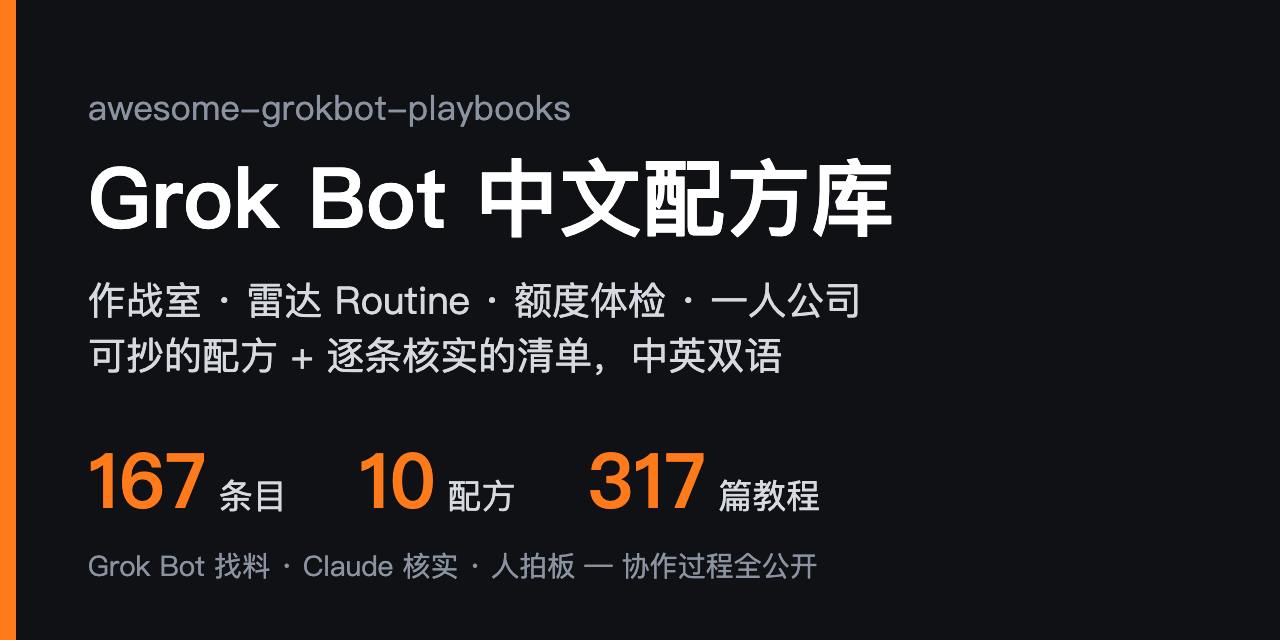
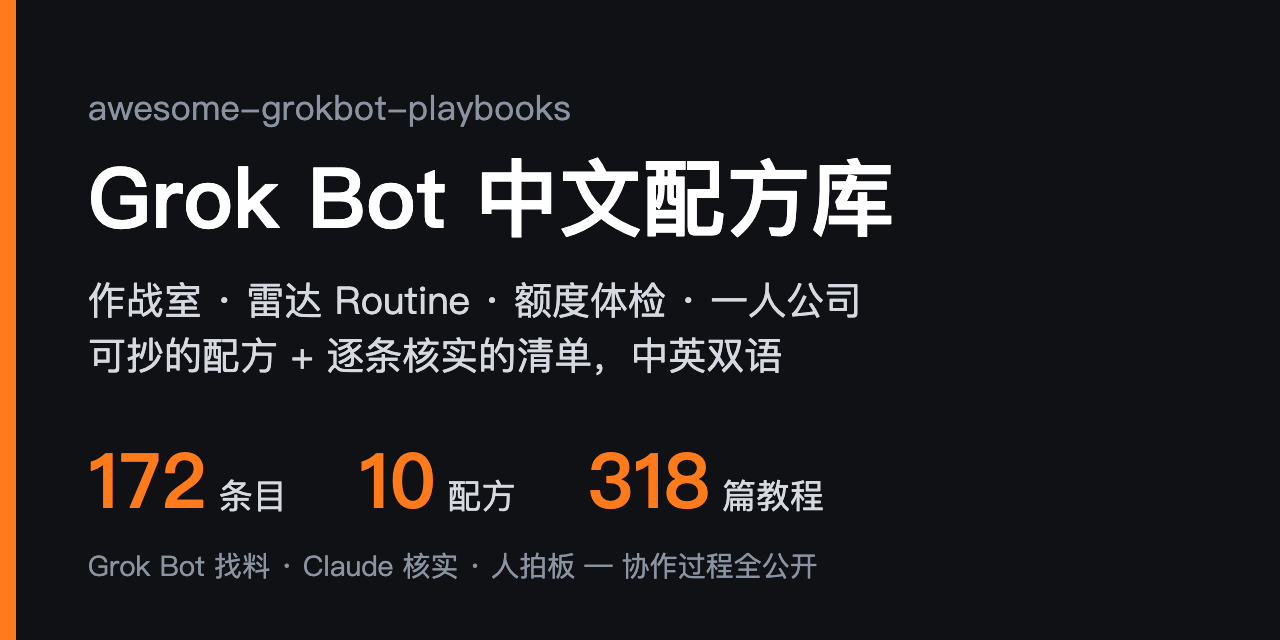
collab: loop #96 entries 167 -> 172, x-articles 284 -> 285 (tutorials 317 -> 318), recheck 10-30 batch

Changed region(s): [[0.5, 0.7188, 0.6562, 0.8125], [0.0938, 0.6875, 0.1562, 0.8125]]

diff --git a/.collab/recheck.md b/.collab/recheck.md
@@ -141,23 +141,19 @@ Claude 维护。仓库没过收录门槛（见 [CONTRIBUTING.md](../CONTRIBUTING
 | [devicki/ourobot](https://github.com/devicki/ourobot) | 11-05 | 0★ · MIT · 建 10-22 | 10-29 第 1 次延期：建仓后没有新提交；顾问 bot：把 Q00/ouroboros 包成 Grok Bot 引擎，本机跑 Ouroboros MCP + Claude Code + Grok Build；默认只咨询、验收，到期核是否真以 Grok Bot 为主 |
 | [Obiwayne/grokbot-receipts](https://github.com/Obiwayne/grokbot-receipts) | 11-05 | 0★ · MIT · 建 10-22 | 10-29 第 1 次延期：建仓后没有新提交；@bot 事实核验 skill：归档原文、逐字核引文、两家独立来源才下结论，只出草稿不发帖；作者注明 Grok Bot 包没真机测 |
 | [antonyfuentesdev/spanish-teacher-bot-template](https://github.com/antonyfuentesdev/spanish-teacher-bot-template) | 11-05 | 0★ · CC BY-NC 4.0（GitHub 识别为 Other）· 建 10-22 | 10-29 第 1 次延期：建仓后没有新提交；西语教师 bot 模板源：人设、记忆、routine、13 个 skill；收录时注明不能商用 |
-| [aipmer/codex-grok-task-bridge](https://github.com/aipmer/codex-grok-task-bridge) | 10-30 | 4★ · Apache-2.0 · 建 09-12 · 最近提交 09-20 | 门槛已过，但 README 自己写 Grok Bot 侧「还要接 connector、测 routine」。到期看作者跑通没有，跑通就收；仍没跑通就移出 |
-| [markmcnair/chief-of-staff-kit](https://github.com/markmcnair/chief-of-staff-kit) | 10-30 | 0★ · MIT · 建 10-23 | Beeper / iMessage 新消息 → webhook routine 起草，只有你批准的行才经 Supabase outbox 发出；短评写明要接 Supabase 和本机 Mac |
-| [yeemio/grokbots-team](https://github.com/yeemio/grokbots-team) | 10-30 | 0★ · MIT · 建 10-23 | 多 bot 团队运维小工具（PR 交接唤醒总管、X 草稿队列不自动发）；到期看是否脱离个人环境、能给别人用 |
-| [hunvreus/grokbot-discord](https://github.com/hunvreus/grokbot-discord) | 10-30 | 0★ · MIT · 建 10-23 | Discord 斜杠命令 → Cloudflare Worker 验签 + 用户/服务器/频道白名单 → routine webhook，经 followup_url 回原频道；过线放 webhook 桥一类 |
-| [PhillipHolland/security-audit-bot](https://github.com/PhillipHolland/security-audit-bot) | 10-30 | 0★ · 无 LICENSE · 建 10-23 | 只读浅克隆 + 开源扫描器出线索 + Cloudflare security-audit skill 验证；到期先看补没补 LICENSE，再核 Grok Bot 侧用法（README 没提 Grok，说明在 bot-spec.md） |
-| [severusgao/hermes-office](https://github.com/severusgao/hermes-office) | 10-30 | 0★ · MIT · 建 10-23 | 中文自托管「Grok Bot 式 AI 团队」平替（Hermes Agent + 多 CLI + 互审）；过线放「自托管与平替」，到期看是否能脱离作者环境跑 |
-| [howardpen9/tg-stars-workflows](https://github.com/howardpen9/tg-stars-workflows) | 10-30 | 1★ · 无 LICENSE · 建 10-23 | Telegram Stars 付款 → 签名 webhook 唤醒创作者的 routine 交付，仓里只放公开 listing；到期先看 LICENSE，再看签名唤醒是否已实现（README 写 phase 2）；涉付款，收录时标实验性、算商业类 |
-| [beansmile/geo-checker-grok-bot-scripts](https://github.com/beansmile/geo-checker-grok-bot-scripts) | 10-30 | 0★ · MIT · 建 10-23 | GEO 体检 skill 的脚本：Python 标准库爬站、9 维规则打分、出 md / html 报告，LLM 部分由 bot 自己做，不要外部 key；到期看是否只是某个 bot 模板的配套脚本 |
-| [Vedant817/vesper-grok-bot-bridge](https://github.com/Vedant817/vesper-grok-bot-bridge) | 10-30 | 0★ · MIT · 建 10-23 | Grok Bot 当编码 agent 的监工：派活、补输入、同会话返工、看真实验证结果再验收；两套模板（T3 Connect / 本仓 MCP 桥接 ACP 编码 CLI，隔离 worktree）；过线放「多 Bot 团队」或「技能与玩法」，短评写明本机要跑 MCP 桥 |
-| [mascarock/grokbot-inbox](https://github.com/mascarock/grokbot-inbox) | 10-30 | 0★ · MIT · 建 10-23 | bot 按 skill 只读导出自己的邮件，打包进 URL fragment，纯前端本地解码显示，不发信不回信；过线放「技能与玩法」 |
-| [Zhanweelee/wechat-clawbot-grok-bridge](https://github.com/Zhanweelee/wechat-clawbot-grok-bridge) | 10-30 | 0★ · MIT · 建 10-23 | 微信 ClawBot ↔ webhook routine 的 Go 单文件桥，扫码登录、长轮询转发、本地接口回帖；过线放「中文一人公司」，短评提醒微信接口合规风险 |
-| [RongleCat/grok-bot-esp32-sdk](https://github.com/RongleCat/grok-bot-esp32-sdk) | 10-30 | 0★ · MIT · 建 10-23 · 最近提交 10-23 | 非官方 ESP-IDF C++ 组件：PKCE 登录、bot 名册、发消息、回复流解码；作者同已收的 Grok Bot Clipper。走非公开接口，过线放「硬件」并写明非官方 |
-| [TeebooTed/desk](https://github.com/TeebooTed/desk) | 10-30 | 0★ · MIT · 建 10-23 · 最近提交 10-24 | 本机单文件项目看板，经本地 relay 发消息到 webhook routine，bot 回写 status.json；过线放「技能与玩法」 |
-| [Obiwayne/dawnbrief](https://github.com/Obiwayne/dawnbrief) | 10-30 | 0★ · MIT · 建 10-23 · 最近提交 10-23 | 早 7 点只读简报（日历、邮件、RSS），带本机 preview；作者说 Grok 包未真机测，收的话写明；过线放「Routine 与摘要」 |
-| [Obiwayne/sweepmail](https://github.com/Obiwayne/sweepmail) | 10-30 | 0★ · MIT · 建 10-23 · 最近提交 10-23 | Gmail 清理 skill，人批后再分批 trash，本机吃 Takeout 干跑；同 dawnbrief 作者，同样未真机测 |
-| [alpha404ai/grok-one-shot](https://github.com/alpha404ai/grok-one-shot) | 10-30 | 0★ · MIT · 建 10-23 · 最近提交 10-23 | 一次做完少返工的 prompt + 模板；同作者一天建了 4 个 prompt 仓（另有 cost-cutter、market-analyst、trading-desk），到期看是否还在维护 |
-| [alpha404ai/grok-cost-cutter](https://github.com/alpha404ai/grok-cost-cutter) | 10-30 | 0★ · MIT · 建 10-23 · 最近提交 10-23 | 省额度 prompt：触发优先、预检、缓存、日硬顶；和 grok-bot-local-first、额度体检配方对照看是否有新东西 |
+| [markmcnair/chief-of-staff-kit](https://github.com/markmcnair/chief-of-staff-kit) | 11-06 | 0★ · MIT · 建 10-23 | 11-01 第 1 次延期：建仓后没有新提交。Beeper / iMessage 新消息 → webhook routine 起草，只有你批准的行才经 Supabase outbox 发出；短评写明要接 Supabase 和本机 Mac |
+| [yeemio/grokbots-team](https://github.com/yeemio/grokbots-team) | 11-06 | 0★ · MIT · 建 10-23 | 11-01 第 1 次延期：建仓后没有新提交。多 bot 团队运维小工具（PR 交接唤醒总管、X 草稿队列不自动发）；到期看是否脱离个人环境、能给别人用 |
+| [hunvreus/grokbot-discord](https://github.com/hunvreus/grokbot-discord) | 11-06 | 0★ · MIT · 建 10-23 | 11-01 第 1 次延期：建仓后没有新提交。Discord 斜杠命令 → Cloudflare Worker 验签 + 用户/服务器/频道白名单 → routine webhook，经 followup_url 回原频道；过线放 webhook 桥一类 |
+| [PhillipHolland/security-audit-bot](https://github.com/PhillipHolland/security-audit-bot) | 11-06 | 0★ · 无 LICENSE · 建 10-23 | 11-01 第 1 次延期：10-24 有新提交，但仍没 LICENSE，请作者先补。只读浅克隆 + 开源扫描器出线索 + Cloudflare security-audit skill 验证；到期先看补没补 LICENSE，再核 Grok Bot 侧用法（README 没提 Grok，说明在 bot-spec.md） |
+| [severusgao/hermes-office](https://github.com/severusgao/hermes-office) | 11-06 | 0★ · MIT · 建 10-23 | 11-01 第 1 次延期：建仓后没有新提交。中文自托管「Grok Bot 式 AI 团队」平替（Hermes Agent + 多 CLI + 互审）；过线放「自托管与平替」，到期看是否能脱离作者环境跑 |
+| [howardpen9/tg-stars-workflows](https://github.com/howardpen9/tg-stars-workflows) | 11-06 | 1★ · 无 LICENSE · 建 10-23 | 11-01 第 1 次延期：建仓后没有新提交，也还没 LICENSE。Telegram Stars 付款 → 签名 webhook 唤醒创作者的 routine 交付，仓里只放公开 listing；到期先看 LICENSE，再看签名唤醒是否已实现（README 写 phase 2）；涉付款，收录时标实验性、算商业类 |
+| [beansmile/geo-checker-grok-bot-scripts](https://github.com/beansmile/geo-checker-grok-bot-scripts) | 11-06 | 0★ · MIT · 建 10-23 | 11-01 第 1 次延期：建仓后没有新提交。GEO 体检 skill 的脚本：Python 标准库爬站、9 维规则打分、出 md / html 报告，LLM 部分由 bot 自己做，不要外部 key；到期看是否只是某个 bot 模板的配套脚本 |
+| [Zhanweelee/wechat-clawbot-grok-bridge](https://github.com/Zhanweelee/wechat-clawbot-grok-bridge) | 11-06 | 0★ · MIT · 建 10-23 | 11-01 第 1 次延期：建仓后没有新提交。微信 ClawBot ↔ webhook routine 的 Go 单文件桥，扫码登录、长轮询转发、本地接口回帖；过线放「中文一人公司」，短评提醒微信接口合规风险 |
+| [RongleCat/grok-bot-esp32-sdk](https://github.com/RongleCat/grok-bot-esp32-sdk) | 11-06 | 0★ · MIT · 建 10-23 · 最近提交 10-23 | 11-01 第 1 次延期：建仓后没有新提交。非官方 ESP-IDF C++ 组件：PKCE 登录、bot 名册、发消息、回复流解码；作者同已收的 Grok Bot Clipper。走非公开接口，过线放「硬件」并写明非官方 |
+| [Obiwayne/dawnbrief](https://github.com/Obiwayne/dawnbrief) | 11-06 | 0★ · MIT · 建 10-23 · 最近提交 10-23 | 11-01 第 1 次延期：建仓后没有新提交。早 7 点只读简报（日历、邮件、RSS），带本机 preview；作者说 Grok 包未真机测，收的话写明；过线放「Routine 与摘要」 |
+| [Obiwayne/sweepmail](https://github.com/Obiwayne/sweepmail) | 11-06 | 0★ · MIT · 建 10-23 · 最近提交 10-23 | 11-01 第 1 次延期：建仓后没有新提交。Gmail 清理 skill，人批后再分批 trash，本机吃 Takeout 干跑；同 dawnbrief 作者，同样未真机测 |
+| [alpha404ai/grok-one-shot](https://github.com/alpha404ai/grok-one-shot) | 11-06 | 0★ · MIT · 建 10-23 · 最近提交 10-23 | 11-01 第 1 次延期：建仓后没有新提交。一次做完少返工的 prompt + 模板；同作者一天建了 4 个 prompt 仓（另有 cost-cutter、market-analyst、trading-desk），到期看是否还在维护 |
+| [alpha404ai/grok-cost-cutter](https://github.com/alpha404ai/grok-cost-cutter) | 11-06 | 0★ · MIT · 建 10-23 · 最近提交 10-23 | 11-01 第 1 次延期：建仓后没有新提交。省额度 prompt：触发优先、预检、缓存、日硬顶；和 grok-bot-local-first、额度体检配方对照看是否有新东西 |
 | [anselmcmakin/local-ai-manager](https://github.com/anselmcmakin/local-ai-manager) | 11-07 | 0★ · MIT · 建 10-24 · 最近提交 10-24 | 10-31 第 1 次延期：建仓后没有新提交。本机本地模型运维，Grok Bot 当监工（watchdog、仪表盘、只绑 127.0.0.1）；作者同已收的 Personal Chef |
 | [cooperpt/apple-watch-grokbot-health](https://github.com/cooperpt/apple-watch-grokbot-health) | 11-07 | 0★ · MIT · 建 10-24 · 最近提交 10-24 | 10-31 第 1 次延期：建仓后没有新提交。中文：Apple Watch 健康数据 → 快捷指令 → webhook → bot 出睡眠小结；仓里只有 README；健康数据敏感，收的话写明 |
 | [sujian666666com-glitch/grokbot-video-mcp](https://github.com/sujian666666com-glitch/grokbot-video-mcp) | 11-07 | 2★ · MIT · 建 10-24 · 最近提交 10-24 | 10-31 第 1 次延期：建仓后没有新提交。本机 MCP 经 webhook 把视频生成派给已有 bot，回调收 MP4；要开 cloudflared 隧道，收的话写明；中英 README |
@@ -168,7 +164,6 @@ Claude 维护。仓库没过收录门槛（见 [CONTRIBUTING.md](../CONTRIBUTING
 | [jbronssin/echo-dot-grok](https://github.com/jbronssin/echo-dot-grok) | 11-07 | 0★ · MIT · 建 10-24 · 最近提交 10-24 | 10-31 第 1 次延期：建仓后没有新提交。旧 Echo Dot 解锁后当语音听筒接 Grok Bot；要刷机、走桌面端私有接口，过线放「硬件」并写明风险 |
 | [rystedtcreative/grokbot-omalauncher-widget](https://github.com/rystedtcreative/grokbot-omalauncher-widget) | 11-07 | 0★ · MIT · 建 10-24 · 最近提交 10-24 | 10-31 第 1 次延期：建仓后没有新提交。Android Omalauncher 主屏挂件：bot 列表加未读点，setup bot 引导建私有 GitHub feed、手机只用只读 deploy key；过线放「技能与玩法」 |
 | [hnn22/lesgooo-grok-plugin](https://github.com/hnn22/lesgooo-grok-plugin) | 11-07 | 0★ · MIT · 建 10-24 · 最近提交 10-24 | 10-31 第 1 次延期：建仓后没有新提交。好友凑局 skill + 远程 MCP（空闲比对、地点投票、分账不转账），走作者的 lesgooo.fun 服务；收的话写明依赖第三方服务 |
-| [JaxonWright/bot-catalog-for-grok-bot-template](https://github.com/JaxonWright/bot-catalog-for-grok-bot-template) | 10-30 | 1★ · GPL-3.0 · 建 10-23 · 最近提交 10-24 | 自更新 bot 目录模板：分享链接给的是拷贝、不随作者更新，目录里每个 bot 带日更 routine，有新 release 才问你升不升；GPL-3.0 要写明；过线放「模板与目录」 |
 | [abhione/grokbot-browser-fleet](https://github.com/abhione/grokbot-browser-fleet) | 11-07 | 0★ · Apache-2.0 · 建 10-24 · 最近提交 10-24 | 10-31 第 1 次延期：建仓后没有新提交。本机浏览器舰队：每个 bot 一个独立 Chrome 配置，外发（私信、发帖、邮件、购买）要人批，有发送上限、去重、勿扰名单和 STOP 文件一键熔断；macOS 优先；过线放「技能与玩法」 |
 | [YeJe-cpu/grok-eats](https://github.com/YeJe-cpu/grok-eats) | 11-07 | 0★ · MIT · 建 10-31 · 最近提交 10-31 | 让 Grok Bot 在云电脑浏览器里点美团外卖 H5：读近期订单给候选、勾最大红包、只用地址簿地址、读回确认才提交，停在收银台由人手机付款；四条硬规则写得清楚，附 10-31 实测截图，中英 README。过线时核美团 H5 自动下单是否碰平台条款，短评写明非官方接口、风险自担 |
 | [BeatAPI/grokbot-growth](https://github.com/BeatAPI/grokbot-growth) | 11-07 | 0★ · MIT · 建 10-31 · 最近提交 10-31 | 中文出海增长 Bot 舰队开工包：一个 skill 先问产品/市场/渠道，再生成总管和社媒、SEO、外链、竞品等岗位说明、共用规则、审核表和第一周清单。商业 API 公司出品，过线时核推广程度（是否要求其 key 或服务），只推免费可用部分 |
@@ -185,6 +180,7 @@ Claude 维护。仓库没过收录门槛（见 [CONTRIBUTING.md](../CONTRIBUTING
 | [Roccat92/grok-office](https://github.com/Roccat92/grok-office) | 11-07 | 0★ · 无 License · 建 10-31 · 最近提交 10-31 | 静态 3D 办公室大屏：bot 自写 `status.json`，页面每 10 秒刷新，附一键改状态的 CLI；越南文 README。缺 LICENSE，先请作者补；办公室类已有好几个在等，过线时挑最完整的收 |
 | [W3D0W/grok-bot-office](https://github.com/W3D0W/grok-bot-office) | 11-07 | 0★ · 无 License · 建 10-31 · 最近提交 10-31 | 俯视 3D 办公室：`bots.json` 驱动 routine 时刻表、bot 之间递文件夹、安静时段回桌睡觉，可在 GitHub Pages 演示。缺 LICENSE，先请作者补；和其他办公室类一起比 |
 | [Bodila51/grokbot-wallpaper](https://github.com/Bodila51/grokbot-wallpaper) | 11-08 | 0★ · 无 License · 建 11-01 · 最近提交 11-01 | 原名 bot-hq：多 bot 3D 办公室动态壁纸，bot 每步往 `events.jsonl` 追加一行，零依赖 Node 尾随，浏览器渲染，带 CONTRACT.md 写入契约；作者标 WIP。缺 LICENSE，先请作者补；和其他办公室类一起比 |
+| [seren-wib/bus-transfer-bot](https://github.com/seren-wib/bus-transfer-bot) | 11-08 | 0★ · 无 LICENSE · 建 11-01 | 11-01 Grok Bot 黑客松作品：1 个编排 bot 在 Kakao Map 查 A→B 并列出第一程各站，3 个搜索 bot 分片查各站换乘的实时到站、写 JSON，编排 bot 合并算最快换乘；韩文需求文档写清 bot 契约和上下限。tasks / results 还是空的，先请作者补 LICENSE；过线放「多 Bot 团队」 |
 | [GrokBot-Cursor/box-butler](https://github.com/GrokBot-Cursor/box-butler) | 11-08 | 0★ · MIT · 建 10-25 · 最近提交 10-25 | 11-01 第 1 次延期：建仓后没有新提交。Freebox（法国运营商家庭服务器）管家 bot：一段 PROMPT 加 12 个 skill（WireGuard、Docker、Plex、Home Assistant 等），逐步征询；垂直，也附 Cursor rules |
 | [jimc1682000/story-compass](https://github.com/jimc1682000/story-compass) | 11-08 | 0★ · MIT · 建 10-25 · 最近提交 10-25 | 11-01 第 1 次延期：建仓后没有新提交。中文（繁体）：按个人知识地图的「边际增益」评估书、漫画、影集值不值得看，提示词 + skill + Grok Bot 三角色入口 |
 | [coletebou/grok-bot-backup](https://github.com/coletebou/grok-bot-backup) | 11-08 | 0★ · MIT · 建 10-25 · 最近提交 10-25 | 11-01 第 1 次延期：建仓后没有新提交。把每个 bot、群聊、routine 和自建 skill 导成纯文件进 git，输出确定（没改动就没 diff），不备份记忆、对话、密钥；走桌面端私有接口，收的话写明升级可能失效 |
@@ -194,6 +190,8 @@ Claude 维护。仓库没过收录门槛（见 [CONTRIBUTING.md](../CONTRIBUTING
 
 ## 已移出
 
+- 11-01 收进 README：JaxonWright/bot-catalog-for-grok-bot-template、TeebooTed/desk、Vedant817/vesper-grok-bot-bridge、mascarock/grokbot-inbox（均为 10-30 到期，建仓后有新提交）
+- 11-01 移出：aipmer/codex-grok-task-bridge（到期仍只验证了手动对话，README 写明 Routine 无人值守那段还没测，09-20 后无新提交）
 - 10-29 收进 README：company-notes/grok-bot-backup、naoiseirwin/Tesla-Grokbot-Connector、crusader0711/specialized-ai-grok-empire、vib-z/stampede、GlennHasABeard/foreman、ericyangpan/grokbot-weixin、alexsergivan/kwant（15★，AGPL-3.0）。都是满 7 天且建仓后有新提交
 - 10-29 移出：0xreggiej/grok-bot-router（仓库已 404）；maplenk/grok-wear（作者写明走 Grok Bot 未公开的客户端私有接口，可能违反 xAI 条款）；Cisen07/harness-bridge（21★，但安装说明不提 Grok Bot，是通用云端调度器）；hermeshai/hermesh（Grok Bot、ChatGPT、Claude、Codex 通用，默认走 hermesh.io 托管中继）；walter-grace/cooks（通用销售 MCP，Claude、Grok、Cursor 都能接）；digitalocean/grokbot-plugin（README 不提 Grok Bot，是通用 Agent Plugins 包）
 - 10-28 收进 README：twhit223/grok-bot-cos（建仓 10-01，10-20、10-21 有新提交）、DynamaxVV/mygrokbot-host、AIPMAndy/grok-bot-handbook、themsquared/grok-bot-cross-agent-leak（Techdirt 10-19 报道可查，放学习资源）。都是满 7 天且建仓后有新提交

diff --git a/README.en.md b/README.en.md
@@ -8,7 +8,7 @@
 
 <p align="center">
   <a href="https://github.com/sit-in/awesome-grokbot-playbooks/stargazers"><img src="https://img.shields.io/github/stars/sit-in/awesome-grokbot-playbooks?style=flat-square&color=ff7a1a" alt="Stars"></a>
-  <img src="https://img.shields.io/badge/entries-167-blue?style=flat-square" alt="Entries">
+  <img src="https://img.shields.io/badge/entries-172-blue?style=flat-square" alt="Entries">
   <img src="https://img.shields.io/badge/recipes-10-blueviolet?style=flat-square" alt="Recipes">
   <img src="https://img.shields.io/badge/last%20verified-2026--11--01-success?style=flat-square" alt="Last verified">
   <a href="https://github.com/sit-in/awesome-grokbot-playbooks/actions/workflows/link-check.yml"><img src="https://github.com/sit-in/awesome-grokbot-playbooks/actions/workflows/link-check.yml/badge.svg" alt="link-check"></a>
@@ -25,10 +25,10 @@
 
 | | |
 |---:|---|
-| **167** | entries, each checked via the GitHub API or the live page: it exists, is still maintained and is actually about Grok Bot; license caveats are noted in the review |
+| **172** | entries, each checked via the GitHub API or the live page: it exists, is still maintained and is actually about Grok Bot; license caveats are noted in the review |
 | **10** | copy-paste recipes in one format: scenario → inputs → steps → prompt → output → pitfalls, all examples sanitized |
 | **3 levels** | of verification: ✅ run end-to-end · 🔍 docs and config reviewed · no mark = repo verified only. ✅ is only for things actually run |
-| **317** | curated community tutorials and X articles ([33 tutorials](docs/community-tutorials.md) + [284 articles from top X creators](docs/x-articles.md)) plus the maintainer's own series, each checked for liveness, author and date |
+| **318** | curated community tutorials and X articles ([33 tutorials](docs/community-tutorials.md) + [285 articles from top X creators](docs/x-articles.md)) plus the maintainer's own series, each checked for liveness, author and date |
 | **2 AIs** | maintain it: Grok Bot scouts daily, Claude Code verifies and writes reviews, a human makes the calls. The full log is public in [`.collab/`](.collab/README.md) |
 
 Compared with the English ecosystem index [awesome-grok-bot](https://github.com/ZeroPointRepo/awesome-grok-bot), which is broad, this repo focuses on **solo founders, multi-bot war rooms, radar routines and copy-paste recipes**. Quality over quantity.
@@ -61,7 +61,7 @@ It is a different product from the Grok chat assistant and the Grok Build coding
 
 ## 🆕 Recently added
 
-- **11-01** Added ten: the 800-template community directory [Grok Bot Shelf](https://grokbotshelf.com), a client for people with many bots [GrokDeck](https://github.com/Gamedesigner/grokdeck), Siri / HomePod access via [Homebot](https://github.com/lumpinif/Homebot), duplicate-safe task handoff [Grok Bot Bridge](https://github.com/runesleo/grok-bot-bridge), headless Linux servers as bot computers with [grokbot-tunnel](https://github.com/exa-pub/grokbot-tunnel), an Omarchy voice hotkey, the multi-bot ops handbook [grok-bot-ops](https://github.com/yohei1126/grok-bot-ops), and three hardware builds: a voice orb, a Stack-chan style companion and a Pixel Tablet face; X articles grew to 284
+- **11-01** Added fifteen: the 800-template community directory [Grok Bot Shelf](https://grokbotshelf.com), a client for people with many bots [GrokDeck](https://github.com/Gamedesigner/grokdeck), Siri / HomePod access via [Homebot](https://github.com/lumpinif/Homebot), duplicate-safe task handoff [Grok Bot Bridge](https://github.com/runesleo/grok-bot-bridge), headless Linux servers as bot computers with [grokbot-tunnel](https://github.com/exa-pub/grokbot-tunnel), an Omarchy voice hotkey, the multi-bot ops handbook [grok-bot-ops](https://github.com/yohei1126/grok-bot-ops), and three hardware builds: a voice orb, a Stack-chan style companion and a Pixel Tablet face, plus the self-updating bot catalog template [Bot Catalog](https://github.com/JaxonWright/bot-catalog-for-grok-bot-template), the [bots skill](https://github.com/raphaelsalaja/skills/tree/main/skills/bots) that puts your bots on your site, the local project dashboard [Desk](https://github.com/TeebooTed/desk), the encrypted mail viewer [Grok Bot Inbox](https://github.com/mascarock/grokbot-inbox) and [Vesper](https://github.com/Vedant817/vesper-grok-bot-bridge) for supervising coding agents; X articles grew to 285
 - **10-31** Added eight: Windows desktop bot beacons [Bot Beacons](https://github.com/SnazzyGaz/bot-beacons), encrypted incremental cloud-computer backups [Grok Box](https://github.com/dorukardahan/grokbox), terminal agents handing tasks to bots with [grokctl](https://github.com/lucasjsbarbosa/grokctl), a task mailbox shared by Claude and bots [agent-relay](https://github.com/pawelmical/agent-relay), the Tesla status plugin [Vehicle Fleet](https://github.com/matthew-rutledge-dev/grokbot-vehicle-fleet), a local quota check-in dashboard [Usage & Check-in](https://github.com/yuehzhan/grokbot-usage-checkin), a rescue kit for templates missing skills [Unfinished Botness](https://github.com/brefledev/unfinished-botness) and a template repo that pulls the latest skill every run [grokbot-skills (datadda27)](https://github.com/datadda27/grokbot-skills)
 - **10-30** Added one: paced directory-backlink playbook [backlink-pilot](https://github.com/s87343472/backlink-pilot); removed grok-starter-kit after its repo was deleted; X articles grew to 265
 
@@ -70,9 +70,9 @@ Full history: [README commits](https://github.com/sit-in/awesome-grokbot-playboo
 ## 📚 Contents
 
 - [Official & SDK](#-official--sdk) (6) - official docs, marketplace, SDKs and CLIs
-- [Templates & directories](#-templates--directories) (16) - template libraries, bot-share indexes and use-case sites; check here first
-- [Skills & Playbooks](#-skills--playbooks) (59) - skills, MCP, single templates, copy-paste profiles
-- [Multi-bot teams](#-multi-bot-teams) (34) - war rooms, coordinators, multi-agent work
+- [Templates & directories](#-templates--directories) (17) - template libraries, bot-share indexes and use-case sites; check here first
+- [Skills & Playbooks](#-skills--playbooks) (62) - skills, MCP, single templates, copy-paste profiles
+- [Multi-bot teams](#-multi-bot-teams) (35) - war rooms, coordinators, multi-agent work
 - [Routines & Digests](#-routines--digests) (11) - scheduled radars, weekly reviews, usage control
 - [Chinese solo-founder](#-chinese-solo-founder) (6) - global support, WeChat, Chinese configs
 - [Self-hosted bots](#-self-hosted-bots) (16) - stay off the cloud, bring your own model
@@ -110,6 +110,7 @@ Full history: [README commits](https://github.com/sit-in/awesome-grokbot-playboo
 - [grok-bot-templates](https://github.com/ChamathRosh/grok-bot-templates) - Six free templates for small businesses: quote follow-ups, missed-call replies, review replies, invoice reminders and a morning brief, plus a planner that asks five questions and picks your first bot. Drafts only: nothing is sent or paid for you, and missing details stay as `[FILL IN]` instead of being made up. Only the planner has a one-click install link so far; for the others, paste the instructions into an empty bot as its first message. The README links heavily to the author's site whatshouldmybotdo.com. MIT. Tags: `template` `small-business` `drafts-only`
 - [Lingverse](https://github.com/lingverse-ai/lingverse) - A Chinese series of Grok Bots: each one is a one-click-import bot with a single job. The first, Moling, writes long-form posts from work you actually did, then adapts them for each platform. Content CC BY 4.0, code MIT. Tags: `template` `writing` `chinese`
 - [Chief of Staff](https://github.com/twhit223/grok-bot-cos) - A reproducible chief-of-staff bot: goals and open items, a morning focus brief, a midday inbox check, an end-of-day brief, next-day meeting prep at night and a Friday wind-down as five routines, plus skills for 1:1 prep and meeting notes; connects Notion, Slack, Calendar, Gmail, Drive and Linear. The share link is still team-scoped for some teams, so you can build it by hand from the repo. MIT. Tags: `template` `chief-of-staff` `routine`
+- [Bot Catalog for Grok Bot](https://github.com/JaxonWright/bot-catalog-for-grok-bot-template) - A template for a self-updating bot catalog. A bot added from a share link is a copy, so the creator's later fixes never reach it; here every bot carries a daily routine that checks the repo for a newer release of itself, shows you the changelog and a diff link, and updates only if you say yes (automatic checks can be turned off). To start your own catalog, add the Catalog Manager and say "Set up my catalog": it connects GitHub, creates the repo from the template, adds branch protection and remembers which personal details must never be published, and nothing personal is pushed without your OK in chat. Needs the GitHub connector; the template is GPL-3.0, your own bots can use another license. Tags: `directory` `templates` `routine` `github`
 
 <sub>[⬆ Back to contents](#-contents)</sub>
 
@@ -174,6 +175,9 @@ Full history: [README commits](https://github.com/sit-in/awesome-grokbot-playboo
 - [Tesla Grokbot Connector](https://github.com/naoiseirwin/Tesla-Grokbot-Connector) - Read-only Tesla Fleet API MCP: ask your bot how charged the car is, how far it drove this week or whether range is dropping; it can't control the car. Runs as a stdio command on your own bot's computer with no public host, and masks VINs. You need your own Tesla developer app; unofficial. MIT. Tags: `mcp` `tesla` `read-only`
 - [Grok Bot Vehicle Fleet](https://github.com/matthew-rutledge-dev/grokbot-vehicle-fleet) - A community MCP plugin plus skills that reads Tesla vehicle status through the official Fleet API (battery, climate, locks, tire pressure, coarse location and more). Read-only by default, cached data first, and it never wakes the car on its own; commands appear only after you turn them on, each needs your confirmation, and there is no scheduled or automatic control. The author says it is not for emergency or safety use. Uses your own developer app and tokens; several releases shipped in the past week. MIT. Tags: `mcp` `tesla` `vehicle`
 - [grokbot-tunnel](https://github.com/exa-pub/grokbot-tunnel) - Connects a headless Linux server (VPS, home server, container, Raspberry Pi) to Grok Bot as a local computer, so the bot can run commands and edit files there; a single static Go binary that runs as a systemd service, reconnects at boot and updates itself, with ask / always / never command permissions. Unofficial; while connected the bot can execute commands on that server, so keep it off machines with sensitive data and start with ask. CI and releases. MIT. Tags: `linux` `server` `computer`
+- [bots skill (raphaelsalaja/skills)](https://github.com/raphaelsalaja/skills/tree/main/skills/bots) - Puts the Grok Bots you pick on your personal site. You paste one prompt into your primary bot: it lists every bot and waits for your picks, has each picked bot check itself for emails, client names, internal links, keys and other private details and propose fixes that apply only after you approve, then hands you a checklist, because publishing the template and copying its link stay with you. Your coding agent then builds one data file, a shakeable physics pile, cards and an org-chart page, with shapes and colors taken from each bot's public page. Part of the author's collection of interface skills; install with `npx skills add raphaelsalaja/skills`; needs matter-js. MIT. Tags: `skill` `portfolio` `share` `privacy`
+- [Desk](https://github.com/TeebooTed/desk) - A single-file local project dashboard you open as `file://`, organized by project and progress rather than kanban columns. Its "Message bot" box sends a note through a local relay to a webhook routine, and a twice-daily routine writes status.json to refresh progress. Paste the setup prompt from the README to your bot to install it; the webhook key goes only into the relay config. Data stays on your machine by default, with an optional Solid pod. The one-line install is `curl | bash` and sets up the local relay and autostart, so clone and read install.sh first if you prefer. MIT. Tags: `dashboard` `webhook` `routine` `local`
+- [Grok Bot Inbox](https://github.com/mascarock/grokbot-inbox) - A web inbox for the mail your bot receives, deployed to your own free Vercel project. On every new message the bot publishes an encrypted snapshot; the key sits after `#` in your link and never reaches a server, so the page only stores ciphertext. Replying from the page leaves an encrypted draft for the bot, which shows a draft card in chat within about 15 minutes and sends only after you confirm. The one-click template link in the README is still a placeholder, so for now deploy it by following the docs; there is a live demo. MIT. Tags: `email` `inbox` `privacy` `vercel`
 
 <sub>[⬆ Back to contents](#-contents)</sub>
 
@@ -213,6 +217,7 @@ Full history: [README commits](https://github.com/sit-in/awesome-grokbot-playboo
 - [grokctl](https://github.com/lucasjsbarbosa/grokctl) - An unofficial CLI that lets terminal agents (Claude Code, Codex, OpenCode) hand tasks to your Grok bots, wait for them to finish and read the answers, with file attachments. It restarts the Windows desktop app with its DevTools port bound to 127.0.0.1, then types into the composer, clicks Send and reads the page; the author warns that an app update can break it at any time and that automating the app may break its terms. Windows only, callable from WSL. MIT. Tags: `cli` `bridge` `windows`
 - [agent-relay](https://github.com/pawelmical/agent-relay) - A remote MCP task mailbox on Cloudflare Workers: Grok Bot (bearer token) and Claude (OAuth) leave tasks for each other, claim them and write results back, and a webhook can wake the assignee's routine with a doorbell that carries no task text. One-click deploy, now open to any MCP agent. Everyone shares one secret, and finished tasks are deleted after 30 days. MIT. Tags: `mcp` `cloudflare` `handoff`
 - [grok-bot-ops](https://github.com/yohei1126/grok-bot-ops) - Ops hygiene for running several bots, documentation only: where shared rules live, when to create or retire a bot, long-lived bots versus one-off chats, and a monthly audit checklist, aimed at lower usage and cleaner handoffs. Apache-2.0. Tags: `multi-agent` `ops` `usage`
+- [Vesper Grok Bot Bridge](https://github.com/Vedant817/vesper-grok-bot-bridge) - Makes Grok Bot the supervisor of your coding agents: it starts a task, reads the reply, answers delegated technical questions, asks for rework in the same session and checks real verification output before accepting. Two published templates: T3 Code users go through T3 Connect with no bridge to install; other coding CLIs need the author's local MCP bridge (npm package grok-bot-mcp-agent), which can enroll several CLIs. Importing a template installs no software and signs in to no coding account. CI. MIT. Tags: `coding-agent` `mcp` `supervisor`
 
 <sub>[⬆ Back to contents](#-contents)</sub>
 
@@ -288,7 +293,7 @@ Full history: [README commits](https://github.com/sit-in/awesome-grokbot-playboo
 - [Two bots leaked a CEO's bank balance to Slack: repro and guardrail](https://github.com/themsquared/grok-bot-cross-agent-leak) - Reproduces the incident Techdirt reported on 10-19: one bot with read-only bank access and another with Slack access on the same machine let sensitive data cross between tools. Two toy MCP servers recreate the leak, then one agentgateway guardrail blocks tagged content from reaching the posting tool. Comes with the author's write-up. Apache-2.0. Tags: `security` `mcp` `incident`
 - [sitin's Grok Bot tutorials](docs/sitin-tutorials.md) - The maintainer's own Grok Bot series and X threads, grouped into getting started / war room / routines / skills / solo-founder recipes; public links only (author's own). (Chinese) Tags: `chinese` `tutorials` `author`
 - [Community Grok Bot tutorials](docs/community-tutorials.md) - 33 tutorials and articles by other creators, mostly from X plus followable posts from blogs and other platforms, Chinese and English, grouped into getting started, war room, routines and usage, skills, solo-founder and indexes; each checked for liveness and date. (Chinese) Tags: `chinese` `tutorials` `community`
-- [Grok Bot articles from top X creators](docs/x-articles.md) - 284 long-form X articles and threads in Chinese and English, grouped into getting started, war room, routines and usage, skills, and solo-founder; only tutorials and real setups with genuine traction, and any numbers are the authors' own claims. (Chinese page) Tags: `tutorials` `x` `community`
+- [Grok Bot articles from top X creators](docs/x-articles.md) - 285 long-form X articles and threads in Chinese and English, grouped into getting started, war room, routines and usage, skills, and solo-founder; only tutorials and real setups with genuine traction, and any numbers are the authors' own claims. (Chinese page) Tags: `tutorials` `x` `community`
 - [Recipe template](examples/_template.md) - Format to follow before submitting a recipe: scenario / input / steps / prompt / output / pitfalls. (Chinese) Tags: `template` `learning`
 
 <sub>[⬆ Back to contents](#-contents)</sub>

diff --git a/.collab/loop-state.md b/.collab/loop-state.md
@@ -1,8 +1,8 @@
 # loop-state
-- last_run: 2026-11-01 08:29 Asia/Shanghai
-- last_to_claude_heading: ### 2026-11-01 08:05 Grok 请 loop 审
+- last_run: 2026-11-01 10:31 Asia/Shanghai
+- last_to_claude_heading: ### 2026-11-01 10:07 Grok 请 loop 审
 - idle_rounds: 0
-- rounds_this_session: 95
+- rounds_this_session: 96
 - session_started: 2026-10-29 16:00 Asia/Shanghai（cron b97d345c，早 8 点到凌晨 2 点每 2h，不设轮数上限，约 11-05 失效；旧 cron 5294bf8e 已随 10-21 会话失效）
-- pending: 外部 PR #17（grokbotplays.com）待涛哥决定，10-30 起与 main 冲突，已给涛哥三个处理方案（Claude 代写进 README 并署名 / 网页解冲突合并 / 请作者 rebase）；合并后补徽章 / 为什么表 / 🆕 最近更新（167 → 168）
+- pending: 外部 PR #17（grokbotplays.com）待涛哥决定，10-30 起与 main 冲突，已给涛哥三个处理方案（Claude 代写进 README 并署名 / 网页解冲突合并 / 请作者 rebase）；合并后补徽章 / 为什么表 / 🆕 最近更新（172 → 173）
 - note: 10-21 规则调整：门槛见 CONTRIBUTING#收录门槛；暂缓仓见 recheck.md（每轮看到期行）；早 8 点到凌晨 2 点每 2h；promo 不再同步，README 首图用 scripts/banner.py 随数字重出（HTML 模板 assets/banner/banner.html），社交预览用不带数字的 social-card.png。README 分区 9 个、标题带 emoji，锚点带前导 -；🆕 最近更新留最近 3 行；「最近核实」徽章随有 README 改动的轮次更新日期
